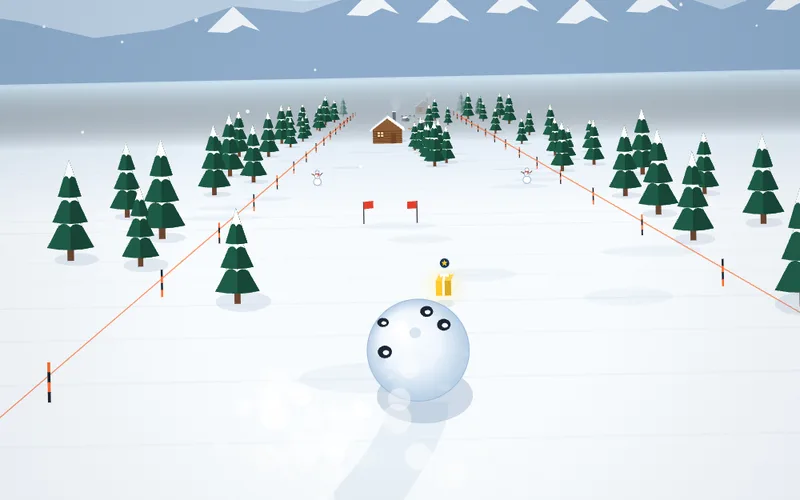
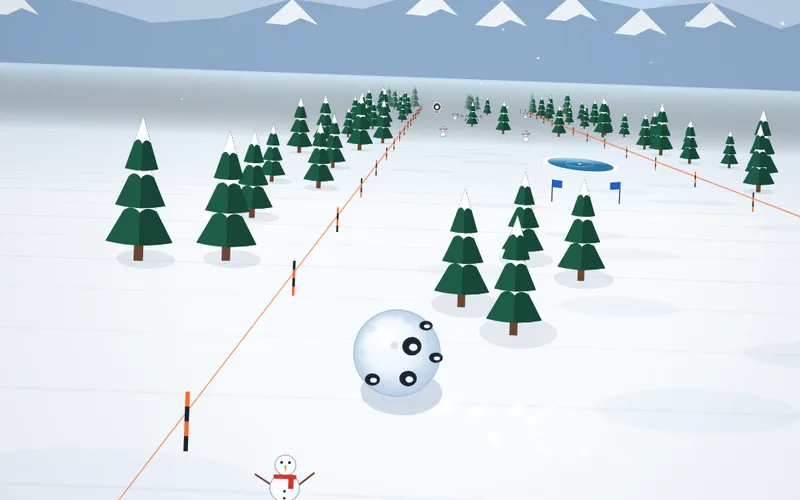
Avalanche Roll: fix the shadowy smearing and slow motion
The game drew each cabin's roof overhang even when it had gone behind the camera,
which threw an error half-way through the frame and left the canvas stuck
nearly see-through. From then on every frame was painted faintly over the last,
so everything smeared, until the page was reloaded. Cabins now skip those
frames, and every frame starts opaque and always restores its drawing state.

Also: things the ball has passed stay solid instead of turning into
see-through ghosts; no grey streak behind the ball; a crash no longer tints the
screen pink, flickers the ball or drops the game to half speed; and the game
keeps real time on a slow frame instead of playing in slow motion, with
cheaper drawing (CSS vignette, plain ground fill, capped canvas resolution).

Claude-Session: https://claude.ai/code/session_01Q2mDy8bF6Ujhsit4wSPKi5

diff --git a/avalanche/index.html b/avalanche/index.html
@@ -23,7 +23,7 @@
   --plate:#123457; --plate-2:#1b4673; --plate-ink:#ffffff; --plate-soft:#b9cfe6; --tile:#ffffff;
   --accent:#ff6a2b; --accent-ink:#ffffff;
   --gate-red:#e2412f; --trail-green:#23955a; --trail-blue:#2160c9; --diamond:#14181d;
-  --bg:#d6ebf8; --scrim:rgba(14,40,68,.28); --shadow:rgba(9,28,52,.35);
+  --bg:#d6ebf8; --scrim:rgba(14,40,68,.28); --shadow:rgba(9,28,52,.35); --vignette:rgba(16,48,86,.16);
   --font-display:"Lilita One","Arial Rounded MT Bold","Trebuchet MS",system-ui,sans-serif;
   --font-ui:"Barlow Condensed","Roboto Condensed","Arial Narrow",system-ui,sans-serif;
   --font-body:"Barlow Semi Condensed","Barlow","Segoe UI",system-ui,sans-serif;
@@ -32,14 +32,14 @@
   --sky-top:#030817; --sky-low:#1a2d50; --snow:#c4d4e8; --snow-far:#4d6688; --snow-shade:#7f99bb;
   --mountain:#1d3254; --mountain-far:#273f63; --night:1;
   --plate:#0a1d34; --plate-2:#13325a; --plate-ink:#f2f7fc; --plate-soft:#8fb0d3; --tile:#eef4fa;
-  --accent:#ff8547; --accent-ink:#1b0d05; --bg:#0b1830; --scrim:rgba(2,8,20,.45); --shadow:rgba(0,0,0,.5);
+  --accent:#ff8547; --accent-ink:#1b0d05; --bg:#0b1830; --scrim:rgba(2,8,20,.45); --shadow:rgba(0,0,0,.5); --vignette:rgba(2,6,16,.45);
   color-scheme:dark;
 }}
 :root[data-theme="dark"]{
   --sky-top:#030817; --sky-low:#1a2d50; --snow:#c4d4e8; --snow-far:#4d6688; --snow-shade:#7f99bb;
   --mountain:#1d3254; --mountain-far:#273f63; --night:1;
   --plate:#0a1d34; --plate-2:#13325a; --plate-ink:#f2f7fc; --plate-soft:#8fb0d3; --tile:#eef4fa;
-  --accent:#ff8547; --accent-ink:#1b0d05; --bg:#0b1830; --scrim:rgba(2,8,20,.45); --shadow:rgba(0,0,0,.5);
+  --accent:#ff8547; --accent-ink:#1b0d05; --bg:#0b1830; --scrim:rgba(2,8,20,.45); --shadow:rgba(0,0,0,.5); --vignette:rgba(2,6,16,.45);
   color-scheme:dark;
 }
 html,body{height:100%;overflow:hidden;overscroll-behavior:none}
@@ -48,6 +48,7 @@ body{background:var(--bg);color:var(--plate-ink);font-family:var(--font-body);
   -webkit-user-select:none;user-select:none;-webkit-tap-highlight-color:transparent;-webkit-touch-callout:none}
 button{touch-action:manipulation}
 #cv{position:fixed;inset:0;width:100%;height:100%;display:block;touch-action:none;background:var(--snow)}
+#vignette{position:fixed;inset:0;pointer-events:none;background:radial-gradient(circle at 50% 55%,rgba(8,24,48,0) min(35vw,35vh),var(--vignette) max(80vw,80vh))}
 .layer{position:fixed;inset:0;pointer-events:none;
   padding:calc(env(safe-area-inset-top,0px) + 12px) max(16px,env(safe-area-inset-right,0px)) calc(env(safe-area-inset-bottom,0px) + 16px) max(16px,env(safe-area-inset-left,0px))}
 
@@ -127,6 +128,7 @@ button{touch-action:manipulation}
 </style>
 
 <canvas id="cv" aria-label="Snowy slope with your snowball rolling downhill"></canvas>
+<div id="vignette" aria-hidden="true"></div>
 
 <div id="hud" class="layer" hidden>
   <div class="hud-l">
@@ -512,7 +514,7 @@ function update(dt) {
   if (S.mode === 'dying') { updateDying(dt); updateParticles(dt); return; }
 
   const base = Math.min(29, 13 + (S.level - 1) * 1.6);
-  b.spdMul = Math.min(1, b.spdMul + dt * 0.7);
+  b.spdMul = Math.min(1, b.spdMul + dt * 1.2);
   b.spd = base * (1 + 0.045 * (b.r - CFG.R0)) * b.spdMul;
   const prevZ = b.z;
   b.z += b.spd * dt;
@@ -657,10 +659,10 @@ function hurt(o) {
   const fr = o.t === 'cabin' ? 0.24 : o.t === 'rock' ? 0.17 : 0.13;
   const mn = o.t === 'cabin' ? 0.18 : o.t === 'rock' ? 0.13 : 0.1;
   b.r -= Math.max(mn, b.r * fr);
-  b.inv = 0.7; b.spdMul = 0.55; b.squash = 1;
+  b.inv = 0.7; b.spdMul = 0.8; b.squash = 1;
   const away = Math.sign(b.x - o.x) || (Math.random() < 0.5 ? -1 : 1);
   b.vx = away * 9; b.targetX = b.x + away * 2.5;
-  S.shake = 1; S.flash = 0.7; S.combo = 0; S.comboT = 0;
+  S.shake = 0.6; S.combo = 0; S.comboT = 0;
   b.stuck.splice(0, Math.min(b.stuck.length, 3 + ((b.stuck.length * 0.25) | 0)));
   burst(b.x, b.y + b.rEff, b.z + b.rEff * 0.5, 24, 'snow', b.rEff);
   if (o.t === 'tree') burst(o.x, o.h * 0.7, o.z, 14, 'puff', 1.4);
@@ -819,7 +821,7 @@ function aiSteer() {
 /* ================= renderer: pseudo-3D slope, sprites, effects ================= */
 const cv = document.getElementById('cv');
 const ctx = cv.getContext('2d');
-const V = { W: 360, H: 640, dpr: 1, F: 300, hy: 180, camX: 0, camZ: -10, camH: 8, camBack: 9, bank: 0, ready: false };
+const V = { W: 360, H: 640, dpr: 1, F: 300, hy: 180, camX: 0, camZ: -10, camH: 8, camBack: 9, bank: 0, ready: false, dt: 0 };
 const PAL = {};
 let ridges = null, stars = null, flakes = null;
 
@@ -845,9 +847,11 @@ function readPalette() {
   });
 }
 
+const PIXEL_BUDGET = 2.6e6;   // canvas pixels; an iPad held sideways would otherwise be 3.9 million
 function resize() {
-  const dpr = Math.min(2, window.devicePixelRatio || 1);
   const W = Math.max(200, cv.clientWidth || window.innerWidth), H = Math.max(200, cv.clientHeight || window.innerHeight);
+  let dpr = Math.min(2, window.devicePixelRatio || 1);
+  if (W * H * dpr * dpr > PIXEL_BUDGET) dpr = Math.max(1, Math.sqrt(PIXEL_BUDGET / (W * H)));
   V.W = W; V.H = H; V.dpr = dpr;
   cv.width = Math.round(W * dpr); cv.height = Math.round(H * dpr);
   V.F = 0.95 * Math.min(W, H * 0.72);
@@ -910,25 +914,27 @@ function updateCamera(dt) {
 /* ---------------- frame ---------------- */
 function drawFrame(dt) {
   const { W, H, dpr } = V, b = S.ball;
+  V.dt = dt || 0;
   ctx.setTransform(dpr, 0, 0, dpr, 0, 0);
+  ctx.globalAlpha = 1;   // never inherit a see-through state from a frame that failed part-way
   const pb = P(b.x, b.rEff, b.z) || { x: W / 2, y: H * 0.74 };
   ctx.save();
-  if (S.shake > 0) ctx.translate(rnd(-1, 1) * S.shake * 7, rnd(-1, 1) * S.shake * 5);
-  ctx.translate(pb.x, pb.y); ctx.rotate(V.bank); ctx.translate(-pb.x, -pb.y);
-  drawSky();
-  drawGround();
-  drawFlat();
-  drawTrail();
-  drawShadows();
-  drawSprites();
-  drawParticles();
-  drawTexts();
-  ctx.restore();
+  try {
+    if (S.shake > 0) ctx.translate(rnd(-1, 1) * S.shake * 7, rnd(-1, 1) * S.shake * 5);
+    ctx.translate(pb.x, pb.y); ctx.rotate(V.bank); ctx.translate(-pb.x, -pb.y);
+    drawSky();
+    drawGround();
+    drawFlat();
+    // (no drawTrail: the grey furrow behind the ball read as a shadow streaking down the screen)
+    drawShadows();
+    drawSprites();
+    drawParticles();
+    drawTexts();
+  } finally {
+    ctx.restore();
+  }
   drawSnowfall(dt);
-  if (S.flash > 0) { ctx.fillStyle = `rgba(255,96,64,${S.flash * 0.22})`; ctx.fillRect(0, 0, W, H); }
-  const vg = ctx.createRadialGradient(W / 2, H * 0.55, Math.min(W, H) * 0.35, W / 2, H * 0.55, Math.max(W, H) * 0.8);
-  vg.addColorStop(0, 'rgba(8,24,48,0)'); vg.addColorStop(1, PAL.night ? 'rgba(2,6,16,.45)' : 'rgba(16,48,86,.16)');
-  ctx.fillStyle = vg; ctx.fillRect(0, 0, W, H);
+  // the vignette is the #vignette layer in CSS: as a canvas gradient it cost a third of every frame
 }
 
 function drawSky() {
@@ -981,9 +987,11 @@ function drawSky() {
 
 function drawGround() {
   const { W, H, hy } = V;
-  const g = ctx.createLinearGradient(0, hy, 0, H);
-  g.addColorStop(0, PAL.snowFar); g.addColorStop(0.3, PAL.snow); g.addColorStop(1, PAL.snow);
-  ctx.fillStyle = g; ctx.fillRect(-W, hy, W * 3, H * 2);
+  const band = (H - hy) * 0.3;   // the far-snow gradient only where it changes; the rest is a plain (fast) fill
+  ctx.fillStyle = PAL.snow; ctx.fillRect(-W, hy + band - 1, W * 3, H * 2);
+  const g = ctx.createLinearGradient(0, hy, 0, hy + band);
+  g.addColorStop(0, PAL.snowFar); g.addColorStop(1, PAL.snow);
+  ctx.fillStyle = g; ctx.fillRect(-W, hy, W * 3, band);
   // wind ripples
   ctx.fillStyle = PAL.shade;
   const z0 = Math.ceil((V.camZ + 2) / 3) * 3;
@@ -997,7 +1005,9 @@ function drawGround() {
   for (let z = Math.ceil(V.camZ / 6) * 6; z < V.camZ + CFG.FAR * 0.8; z += 6) {
     for (let k = 0; k < 2; k++) {
       const x = (hash(z * 1.3 + k * 9) - 0.5) * CFG.HW * 2.6;
-      ctx.globalAlpha = 0.13;
+      const near = clamp((z + k * 3 - V.camZ - 4) / 10, 0, 1);   // close up they were big grey blotches
+      if (near <= 0) continue;
+      ctx.globalAlpha = 0.1 * near;
       if (groundEllipse(x, z + k * 3, 2.2 + hash(z + k) * 2, 0.9)) ctx.fill();
     }
   }
@@ -1065,12 +1075,14 @@ function drawCrevasse(o) {
   ctx.beginPath(); near.forEach((p, i) => (i ? ctx.lineTo(p.x, p.y) : ctx.moveTo(p.x, p.y))); ctx.stroke();
 }
 
-function drawTrail() {
+function drawTrail() {   // not drawn any more; kept in case the furrow comes back in a lighter form
   const tr = S.trail; if (tr.length < 2) return;
-  ctx.fillStyle = PAL.shade; ctx.globalAlpha = PAL.night ? 0.24 : 0.2;
+  const base = PAL.night ? 0.22 : 0.18, bz = S.ball.z, len = 6 + S.ball.rEff * 2;
   for (let i = 1; i < tr.length; i++) {
     const a = tr[i - 1], c = tr[i];
     if (a.cut || c.cut || c.z < V.camZ + 0.5) continue;
+    const k = 1 - (bz - c.z) / len; if (k <= 0) continue;
+    ctx.globalAlpha = base * Math.min(1, k * 1.6);
     const w1 = a.w * 0.58, w2 = c.w * 0.58;
     poly([Pg(a.x - w1, 0, a.z), Pg(a.x + w1, 0, a.z), Pg(c.x + w2, 0, c.z), Pg(c.x - w2, 0, c.z)], PAL.shade);
   }
@@ -1101,8 +1113,18 @@ function drawShadows() {
   ctx.globalAlpha = 1;
 }
 
+// would this object, drawn in front of the ball, cover it? (screen boxes overlap)
+function hidesBall(o, p, pb) {
+  if (!pb || S.ball.gone) return false;
+  const R = S.ball.rEff * pb.s;
+  const hw = (o.t === 'cabin' ? o.w / 2 + 0.6 : o.t === 'tree' || o.t === 'pine' ? 1.4 : o.fx || o.r || 0.6) * p.s;
+  const top = p.y - (o.t === 'cabin' ? o.h + o.rh : o.h || 1.5) * p.s;
+  return p.x + hw > pb.x - R && p.x - hw < pb.x + R && p.y > pb.y - R && top < pb.y + R;
+}
+
 function drawSprites() {
   const b = S.ball, list = [];
+  const pb = P(b.x, b.y + b.rEff - b.sink * b.rEff * 1.7 + b.fallY, b.z);
   for (const o of S.objs) {
     if (o.dead || o.t === 'pond' || o.t === 'crev') continue;
     const dz = o.z - V.camZ; if (dz < 0.6 || dz > CFG.FAR) continue;
@@ -1115,7 +1137,13 @@ function drawSprites() {
     if (o === BALL_MARK) { drawBall(); continue; }
     const p = o.t === 'bird' ? P(o.x, o.y, o.z) : P(o.x, 0, o.z); if (!p) continue;
     let a = clamp((CFG.FAR - p.dz) / 25, 0, 1);
-    if (o.z < b.z - b.rEff * 0.3) a *= clamp((o.z - V.camZ) / V.camBack - 0.15, 0.08, o.deco ? 1 : 0.55);
+    if (o.z < b.z) {
+      // Passed things used to turn into see-through ghosts that drifted down the screen. Now they stay solid;
+      // one that would hide the ball eases to see-through, and anything about to brush the camera fades out.
+      const want = hidesBall(o, p, pb) ? 0.35 : 1;
+      o.see = o.see === undefined ? want : lerp(o.see, want, Math.min(1, V.dt * 10));
+      a *= o.see * clamp((p.dz - 0.8) / 2.2, 0, 1);
+    }
     ctx.globalAlpha = a;
     switch (o.t) {
       case 'pine': drawPine(p.x, p.y, p.s, o.h, 0); break;
@@ -1183,6 +1211,10 @@ function drawCabin(o) {
   const ftl = P(x0, h, zf), ftr = P(x1, h, zf), bl = P(x0, 0, zb), br = P(x1, 0, zb), btl = P(x0, h, zb), btr = P(x1, h, zb);
   const rf = P(o.x, h + rh, zf - ov), rb = P(o.x, h + rh, zb + ov), apex = P(o.x, h + rh, zf);
   const elf = P(x0 - ov, h - 0.3, zf - ov), erf = P(x1 + ov, h - 0.3, zf - ov), elb = P(x0 - ov, h - 0.3, zb + ov), erb = P(x1 + ov, h - 0.3, zb + ov);
+  // As a cabin passes the camera its roof overhang (half a metre nearer than the walls) goes behind the camera
+  // and doesn't project. Drawing it anyway threw half-way through the frame and left the canvas stuck
+  // see-through, so every later frame smeared over the last: the "shadowy slow-motion" look. Skip those frames.
+  if (!rf || !elf || !erf) return;
   if (V.camX < x0) poly([fl, bl, btl, ftl], PAL.logShade);
   if (V.camX > x1) poly([fr, br, btr, ftr], PAL.logShade);
   poly([fl, fr, ftr, apex, ftl], PAL.log);
@@ -1366,7 +1398,6 @@ function drawBall() {
   ctx.save();
   if (b.sink > 0) { const gy = P(b.x, 0, b.z); if (gy) { ctx.beginPath(); ctx.rect(p.x - R * 3, gy.y - R * 6, R * 6, R * 6 + R * 0.15); ctx.clip(); } }
   if (b.fallY < 0) ctx.globalAlpha = clamp(1 + b.fallY / (b.rEff * 3), 0, 1);
-  if (b.inv > 0 && Math.floor(S.t * 18) % 2) ctx.globalAlpha *= 0.5;
   ctx.translate(p.x, p.y);
   const sq = b.squash;
   ctx.translate(0, R); ctx.scale(1 + sq * 0.16, 1 - sq * 0.18); ctx.translate(0, -R);
@@ -1603,10 +1634,13 @@ let lastT = performance.now();
 function frame(now) {
   let dt = (now - lastT) / 1000; lastT = now;
   if (!(dt > 0)) dt = 1 / 60;
-  dt = Math.min(dt, 1 / 30);
+  // A slow frame used to be clamped to 1/30 s, so when the screen couldn't keep up the whole game ran in slow
+  // motion. Now it is split into steps of at most 1/60 s (collisions stay exact) and the slope keeps real time;
+  // only a long stall (a hidden tab, a hiccup) is cut short.
+  dt = Math.min(dt, 0.1);
   try {
     if (S.mode === 'play' || S.mode === 'dying' || S.mode === 'title') {
-      const n = dt > 1 / 50 ? 2 : 1;
+      const n = Math.max(1, Math.ceil(dt * 60 - 0.05));
       for (let i = 0; i < n && (S.mode === 'play' || S.mode === 'dying' || S.mode === 'title'); i++) update(dt / n);
     } else if (S.mode === 'over') updateParticles(dt);
     if (S.mode !== 'paused') updateCamera(dt);
